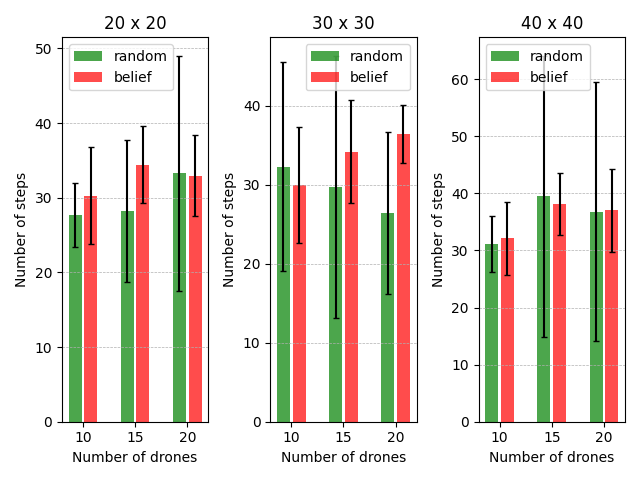
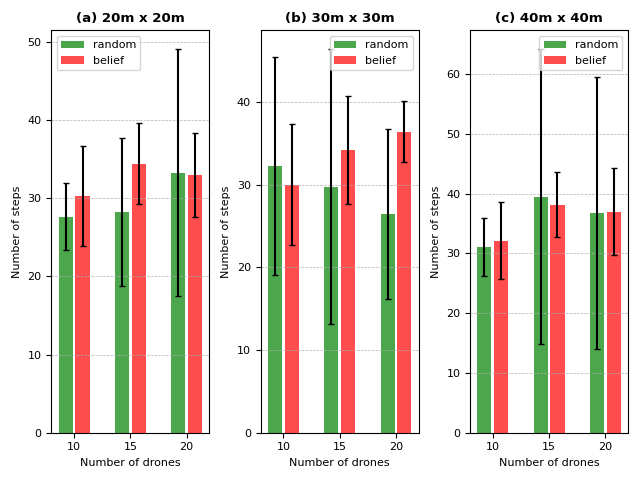
Update the test results figures

diff --git a/sim/controller/src/argos/results/results_summarize.py b/sim/controller/src/argos/results/results_summarize.py
@@ -163,7 +163,7 @@ def plot(res, ax, title, is_target):
 
     ax.set_ylabel('Number of steps')
     ax.set_xlabel('Number of drones')
-    ax.set_title(title)
+    ax.set_title(title, fontweight='bold')
     ax.set_xticks(x_rand)
     ax.set_xticklabels(res["x_" + plot_type + "_rand"])
     ax.legend()
@@ -179,8 +179,8 @@ if __name__ == '__main__':
     results_3030 = get_target_relay_results("3030")
     results_4040 = get_target_relay_results("4040")
     all = [results_2020, results_3030, results_4040]
-    titles = ["20 x 20", "30 x 30", "40 x 40"]
-    
+    titles = ["(a) 20m x 20m", "(b) 30m x 30m", "(c) 40m x 40m"]
+    plt.rcParams['font.size'] = '8'
     fig_t, (ax1_target, ax2_target, ax3_target) = plt.subplots(1, 3)
     ax_t = [ax1_target, ax2_target, ax3_target]
 
